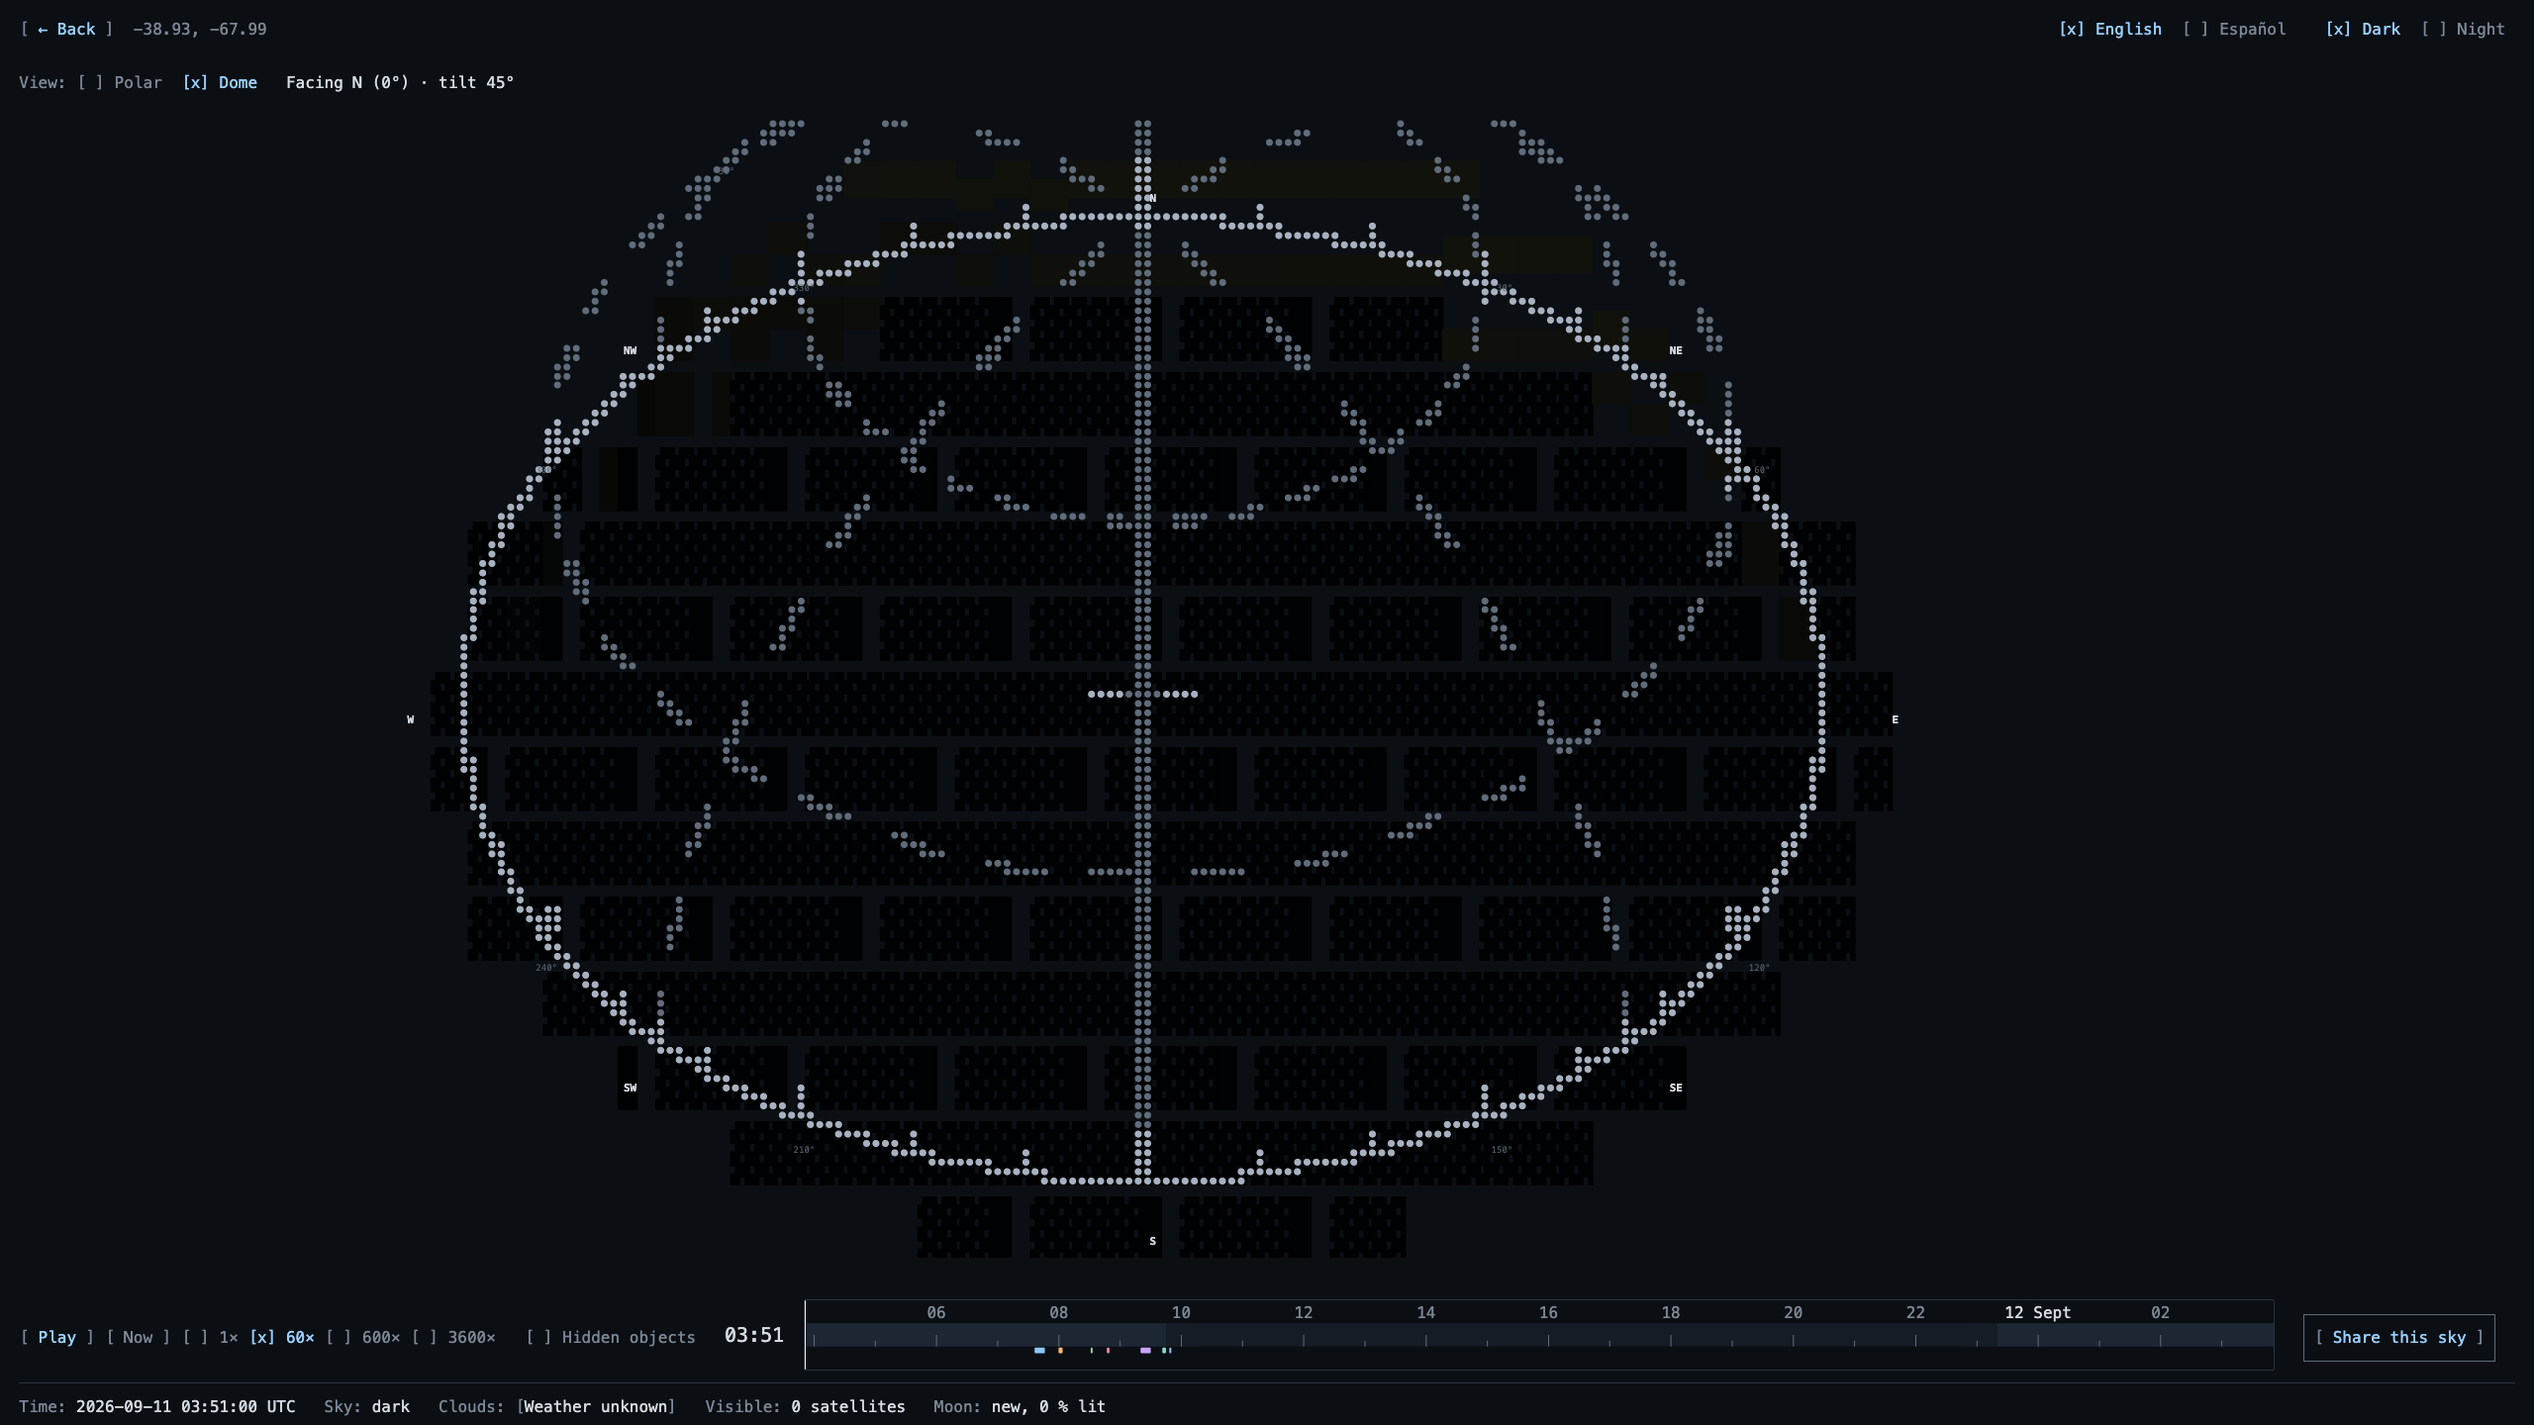
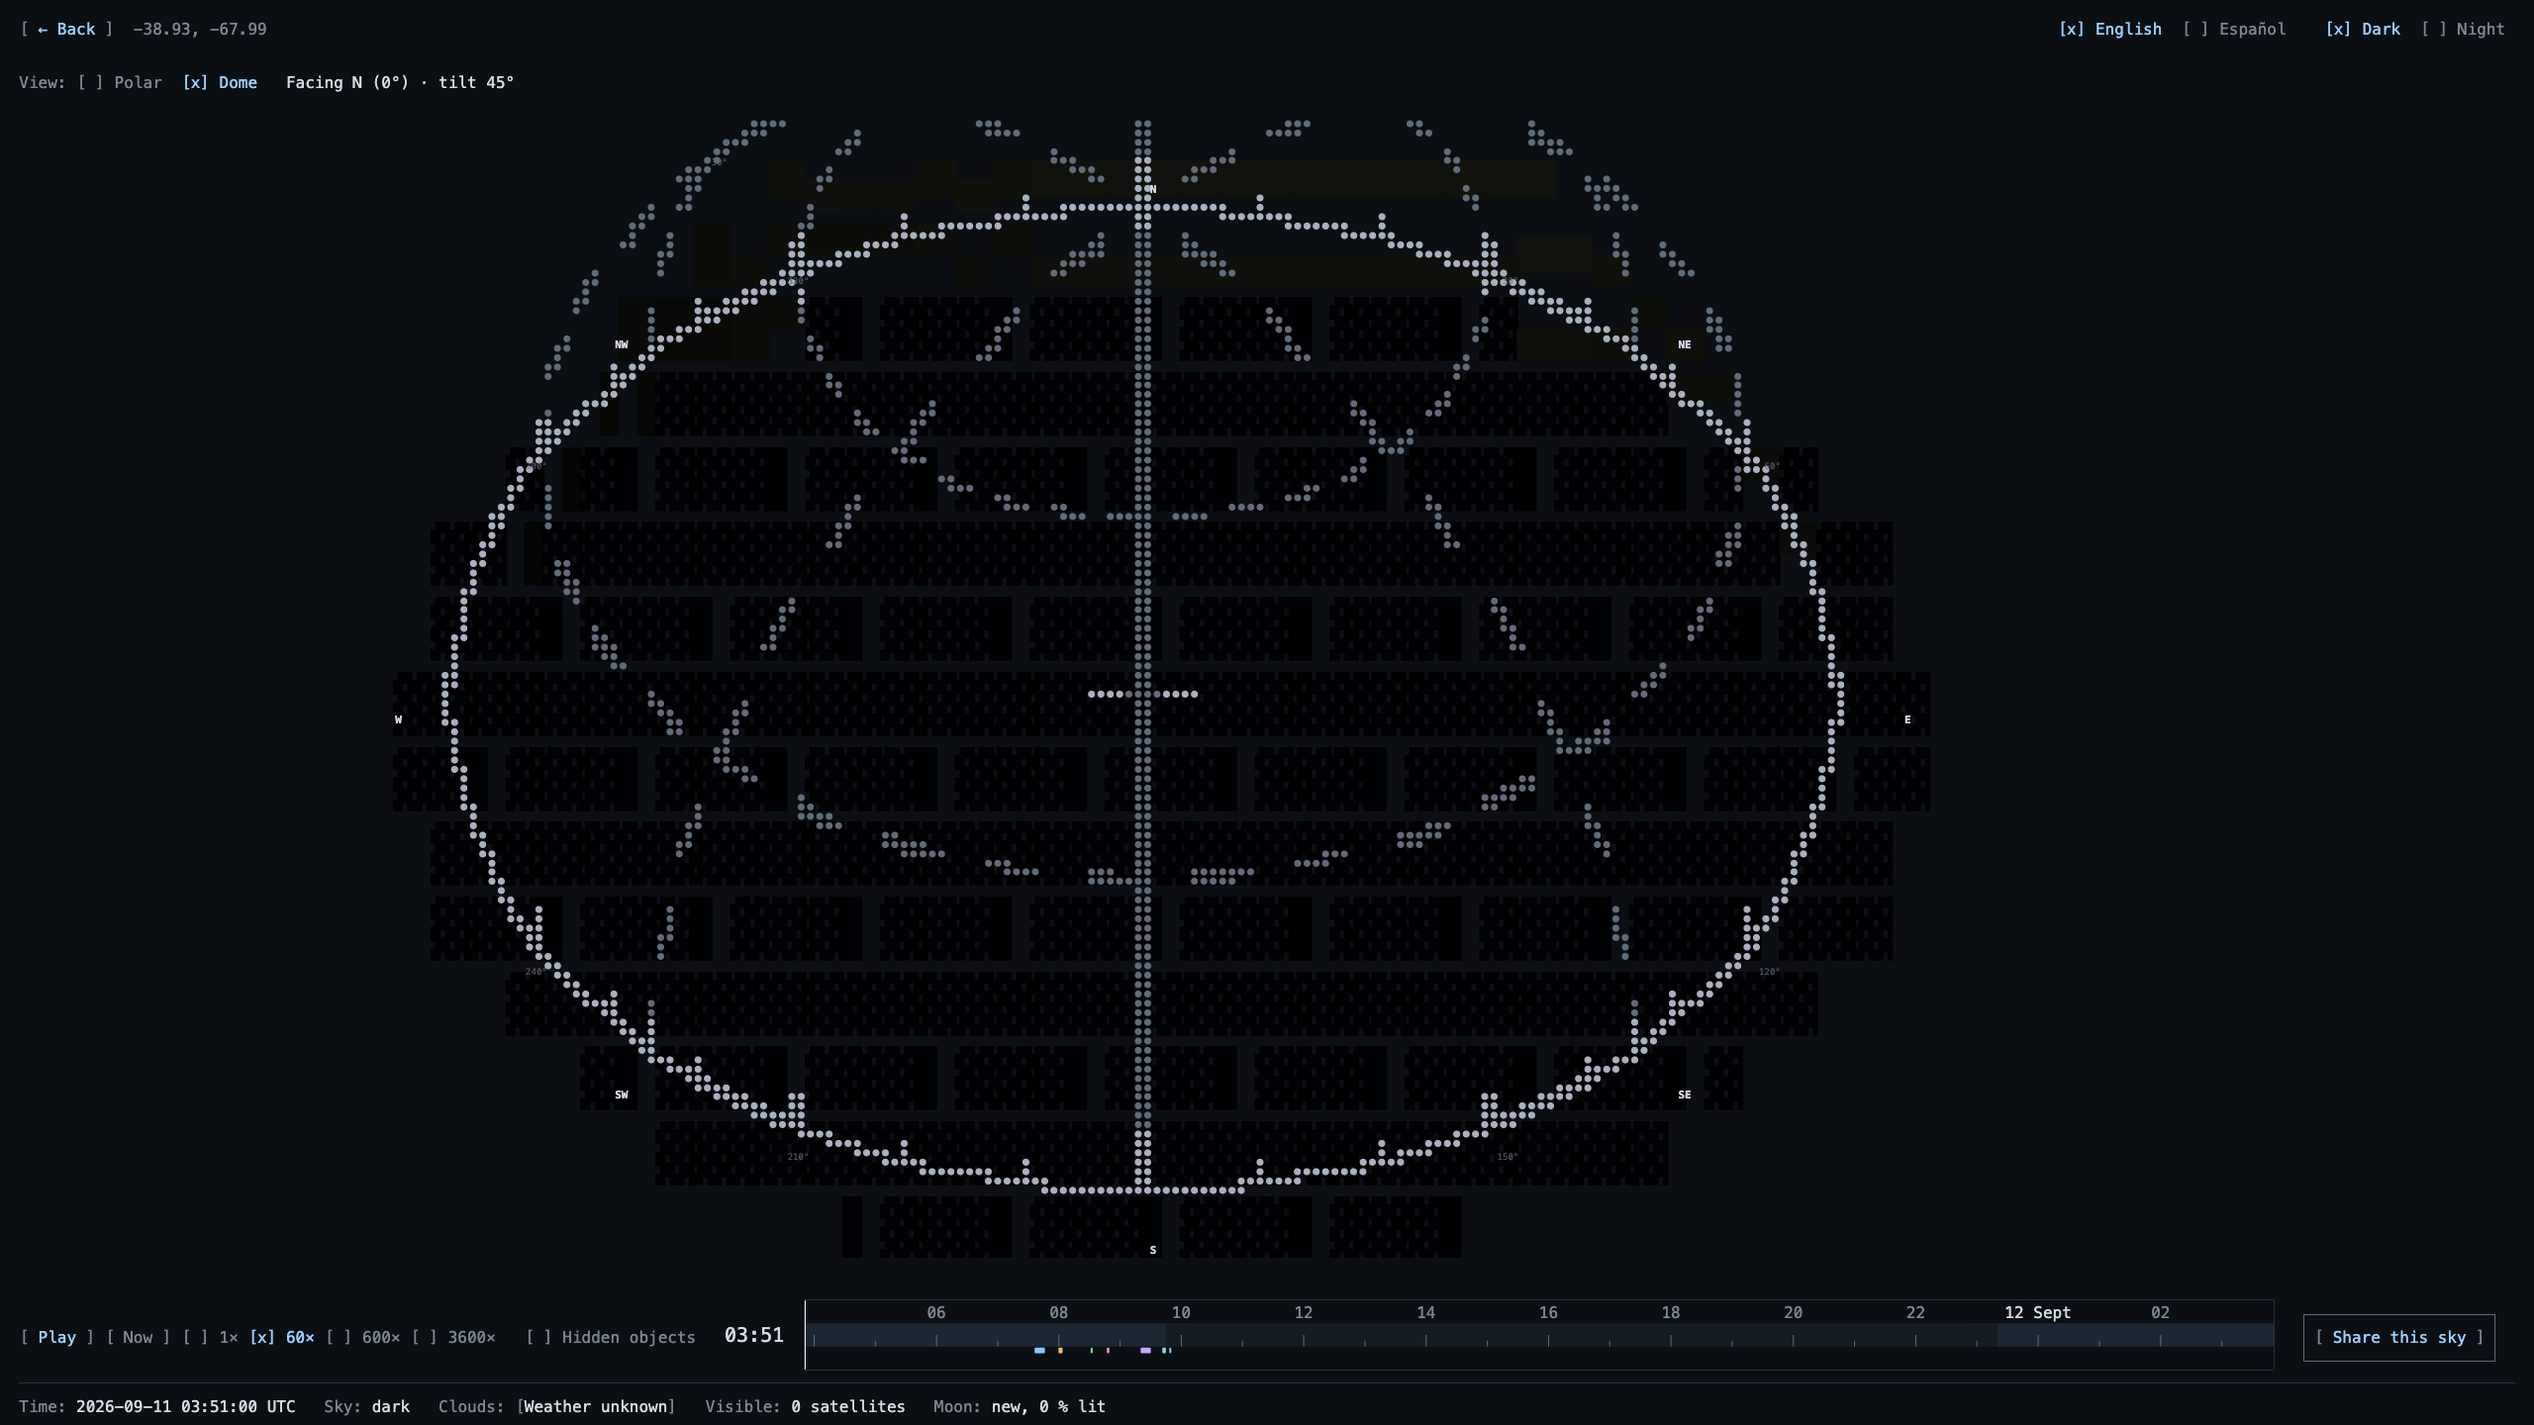
R57: PLAN D-290..D-294, and the 2560 live capture re-shot at the restored zoom

diff --git a/PLAN.md b/PLAN.md
@@ -506,6 +506,16 @@ These plan SPEC v1.2 (V12-1..V12-6). v1.1 spent D-183..D-275; v1.2 starts at D-2
 - **D-284 — What v1.2 spends.** (§16.8 continued.) Every task takes the D-198 brief, and each brief names the sections it needs — the follow task gets SPEC §4.22, §4.10 and PLAN §8.8/§8.12, the fit task §4.9 and §8.7, the store task §4.10 and §7.5 — instead of the three documents. Models: Opus for the two tasks that carry judgement (the ground state's composition and copy, the follow switch's states), Sonnet for the three that are a measured fix with the answer written down here (the fit ceiling, the store guard, the release). Test runs stay narrow while iterating and the whole suite runs once before the last commit (D-199); captures only from the owner-gated tasks and only the screens they change (D-195).
 - **D-285 — The vertical half-field is read from the box, and D-278's parenthetical has its two orientations the wrong way round.** (FR-FOL-5, R56.) `WINDOW_FOV` spans the *shorter* side (FR-WIN-1, `scaleFor`), so the vertical half-field is `FOV / 2` exactly in a square box **and in every box wider than it is tall**, and *more* than `FOV / 2` in a tall one, growing with `height / width`. D-278 says the reverse — "`FOV / 2` in portrait and `FOV / 2 × height / width` in landscape" — which agrees with the code only for the square box the guide draws; taken literally on the live page's tall box it would call the field `buried` with ten degrees of sky still drawn at the top of it. FR-FOL-5's own threshold is the one implemented, "the top edge of the field at or below the horizon": `projection.ts` exports `verticalHalfFieldDeg(view) = 2·atan((height / 2) / scaleFor(view))` — which `placeholderAltDeg` was already computing inline for the same reason (D-233) and now shares — and `groundState` reads it. `projection.test.ts` pins `FOV / 2` for the square and the landscape box, 56.4° for a box twice as tall as it is wide, and both state boundaries in each. Nothing else in D-278 changes.
 - **D-286 — The ground is the inside of the horizon's own closed curve.** (FR-FOL-5, R56.) D-278 asks for the hatch "clipped to the horizon it already computes", and the projection makes that cheap: it is stereographic, so the horizon — a great circle — draws a *circle* on the plane, and the point at infinity is the antipode of where the phone points. In both ground states the centre of the field is below the horizon, so the antipode is above it: the sky is the part that runs off to infinity and the ground is exactly the inside of the closed curve. The clip is therefore the same 181 horizon samples the grid draws, taken whole instead of cut to the drawable field and closed with `Z` — no half-plane, no side test, no second geometry. The curve grows without bound as the centre approaches the horizon, so samples within half a degree of the antipode (where the projection has no answer at all) are dropped; they lie hundreds of box-widths away and only exist in the last fraction of a degree before the state is `sky` again. The unit test casts a ray at the top and the bottom of the box to prove the clipped region is the ground and not the sky.
+- **D-290 — The raster's clamp is about the ink, not about the labels.** (FR-DOME-1 as amended v1.2, F-54; amends D-279.) D-279 clamped the zoom with `zoomFor(min(box, cols × cellWidth), min(box, rows × cellHeight))` — the *box's* divisors, 2.4 and 1.7, applied to the raster. Those two numbers are 2.16 and 1.53 (the compass ring at 1.08 radii, at the default tilt) plus a 10 % margin for the label names, and a label is a DOM element positioned over the grid, not a cell of it: it may overhang the raster as long as it stays inside the box. Charging the raster for it a second time cost the drawing a tenth of its size wherever the clamp bound. `zoomWithinRaster(box, raster)` is the rule instead: the box through `zoomFor` as before, the raster through `INK_WIDTH_UNITS = 2 × GROUND_RADIUS = 2.2` (the ground disc is the widest thing painted into a cell, on the base layer) less `INK_MARGIN_CELLS = 1` column either side, and `INK_HEIGHT_UNITS = 2.2 cos 45°` with no margin — `rowsFor` floors the row count, so one cell is a large share of the drawing's height and a dome that tapers smoothly lights its top and bottom row legitimately, which is why `dome-fit.spec.ts` asserts the columns and not the rows. The blank column is that spec's own rule made structural. The clamp now binds only where the raster is more than a tenth short of its box, which is F-54's case and nothing else: at 1240 × 450 and on the live page's 991 × 325 box the zoom is the box's again, as it was before R57.
+
+- **D-291 — The floor cannot be met from the clamp alone: the drawing is never wider than the raster it is painted on.** (FR-DOME-1 as amended v1.2, F-54.) Measured on the pass detail at 1280 × 800 with a device pixel ratio of 2: a 354.4 px **square** box, where the dome is width-bound (`min(w / 2.4, h / 1.7)` is 147.7 against 208.5), the ink 2.2 world units across and so 0.917 of the box at the very most — 6 px of headroom over FR-DOME-1's 0.9, which this machine measures as 0.915 and CI's Linux does not have. Linux Chromium lays glyphs out without subpixel positioning, so the fit loop (`fitLayout`) steps the font down until a row of whole-pixel advances fits: a 5.9 px cell becomes 5 px and 60 of them are a 300 px raster in a 354.4 px box. The drawing is painted *on* that raster, so it can be no wider than 300 px however the zoom is chosen — 0.85 of the box — and a clamp cannot recover what the raster no longer has. Either the divisors shrink (which resizes the dome at every viewport and invalidates every committed capture — not done, see D-294) or the raster stops losing the width, which is D-293.
+
+- **D-292 — One zoom for both layers, computed where it can be tested: `fitLayers`.** (D-91, FR-DOME-1.) glyphcss measures zoom against the cell it probes at mount, so the two stacked layers must draw at one number or the coarser one is drawn at a different size from the finer one over it. Before R57 both took `zoomFor(width, height)` and were equal by construction; D-279's clamp is per layer, from that layer's own floored `rows × cellHeightPx` and its own settled cell, and the two diverged — 690.2 and 667.9, 3.2 % apart, on the live page at 2560 × 1440, because `SkyDome` builds the base layer at half the columns (D-92) and the two grids floor differently. The composition moves out of the component into `camera.fitLayers(width, height, lineFont, baseFont)`, which fits both layers to the box and gives them `min(lines.zoom, base.zoom)` — the one zoom that fits *both* rasters, so D-279's guarantee holds for each. It is in `camera.ts` rather than `SkyDome.tsx` so the rule is a unit test over a table of boxes and glyph roundings rather than a render test.
+
+- **D-293 — The settled cell sets the column count, so the raster keeps covering its box.** (FR-DOME-1 as amended v1.2, D-291.) `MAX_GRID_COLS = 120` caps what `colsFor` asks of the box; the fit loop then measures what the platform actually renders, and where whole-pixel advances shrink the cell below `hostWidth / cols` it takes the columns the smaller cell leaves room for — `max(cols, floor((hostWidth + FIT_SLACK_PX) / cellWidth))`. The lost width comes back as columns rather than as a drawing that no longer fills its box: 69 cells of 5 px instead of 60, a 345 px raster in a 349.45 px box. Where the advance is exact (macOS, and anything with subpixel positioning) the loop settles on its first step and nothing changes, which is why no committed capture moves for this. What it costs is cells: on a whole-pixel platform a grid can exceed the cap by about a tenth (139 columns at the worst box in a 300–2600 px sweep, against the cap's 120), so D-234's drag rate has that much less margin *there*; the D-62 measurement is taken on this machine, where the grid is unchanged. A swept model of both roundings over every box between 300 and 2600 px puts the painted extent at 0.917 of the shorter side at worst and every layer's ink at least one blank column inside its own grid.
+
+- **D-294 — What R57 does not change: the two divisors.** (FR-DOME-1, D-187, D-268.) `ZOOM_WIDTH_DIVISOR = 2.4` and `ZOOM_HEIGHT_DIVISOR = 1.7` set the dome's size at *every* viewport, so moving them would resize every capture in `docs/screenshots` and turn R60's top-up into a re-shoot; D-291's floor is met from the clamp and the fit loop instead. Two captures' worth of drawing does move, and both follow from D-290 undoing a shrink D-279 had introduced within R57 itself: the live page at 2560 × 1440 (the two layers now agree at 701.8 rather than 690.2 and 667.9, a 5 % larger dome, re-shot here) and the live page's box at 1280 × 800 with a device pixel ratio of 2 (293.5 rather than 291.4, 0.7 %). The 1280 × 800 pass-detail captures are unchanged: that box is square and was never clamped.
+
 - **D-295 — "The precision the hash carries" is five decimals, and one helper decides it.** (FR-LIVE-11, F-56; corrects D-280 and R58's entry.) Both said "the two decimals `shareLinks.ts` writes". `shareLinks.ts` writes **five** (`coord`, "about a metre"); two decimals is `coordsLabel`'s, the label a coordinates-only observer is *named* by, and the guard shipped with a second hand-written literal at that precision — so a link for a genuinely different place, up to about 1.1 km away, was answered with the saved observer's stored run. FR-LIVE-11 is the authority and says the hash's precision, so the comparison moves into `lib/shareLinks.ts` beside the rounding it has to agree with: `hashCoord` is the one rounding, `coord` formats with it, and `sameHashPlace(place, link)` compares latitude and longitude through it and altitude at the whole metres `observerQuery` writes. There is no second literal left to drift. Two places call it, and they are the same arrival a render apart: `startApp`'s guard (D-280) and `App.tsx`'s R39 effect, which had its own exact-equality test — never true for a phone's own fix, since `observerFromPosition` keeps the whole reading and the hash rounds it — and so undid the guard on every `#live` link a phone wrote for itself. SPEC needs no change; this corrects the two documents that misread it.
 - **D-296 — A failed chart view ends through `dropChartView`, which writes nothing.** (FR-WIN-5 as amended, D-277.) D-277 makes `setChartView` both the view control's setter and the thing that clears the override, and `SkyChart`'s `unavailable()` — a refused orientation permission, a phone with no compass heading — was still calling it, so a view the *follow control* opened could save itself over the view the reader picked, which is what the amendment forbids. `slices/prefs.ts` gains `dropChartView(view)`: it clears the override when the failed view was the override (back to what the reader chose) and overrides with the default when the failed view was the saved choice (the dome is shown, the preference waits for the phone it was saved on), and in neither case does it touch `localPrefs`. §7.9 is still unchanged. The slice now has exactly three ways the view moves — the view control writes, the follow control overrides, a failure drops — and one of them writes.
 
@@ -1454,7 +1464,7 @@ No i18n, routing, date or state dependency is added for v1: language is two type
 | FR-FOL-4/5 (v1.2) | `skychart/window/projection.ts` `groundState`, `SkyWindow.tsx`, `SkyWindow.module.css`, `i18n/{en,es}/window.ts` (D-278) |
 | FR-LIVE-8 amended (v1.2) | `useFollowPhone.ts` (heading path removed), `StatusStrip.tsx` declination on window mode (D-276) |
 | FR-WIN-4 / FR-WIN-5 amended (v1.2) | `window/orientationAccess.ts` request from the control, `state/slices/prefs.ts` `savedChartView` (D-277) |
-| FR-DOME-1 amended (ceiling at every size, v1.2) | `dome/camera.ts` `layoutFor` cell growth and `zoomFor` against the raster, `camera.test.ts` size table, `tests/e2e/dome-fit.spec.ts` (D-279); F-54 |
+| FR-DOME-1 amended (ceiling at every size, v1.2) | `dome/camera.ts` `layoutFor` cell growth, `zoomWithinRaster`, `fitLayout`'s column count and `fitLayers`' one zoom, `camera.test.ts` size table, `tests/e2e/dome-fit.spec.ts` (D-279, D-290..D-294); F-54 |
 | FR-LIVE-7 amended (compact spacing, v1.2) | `screens/Live.module.css` `--live-row-gap`, `tests/e2e/live-compact.spec.ts` (D-281); F-55 |
 | FR-LIVE-11 (v1.2) | `state/index.ts` observer guard, `state/slices/*` stored run, `tests/e2e/live-reload.spec.ts` (D-280); F-56 |
 
